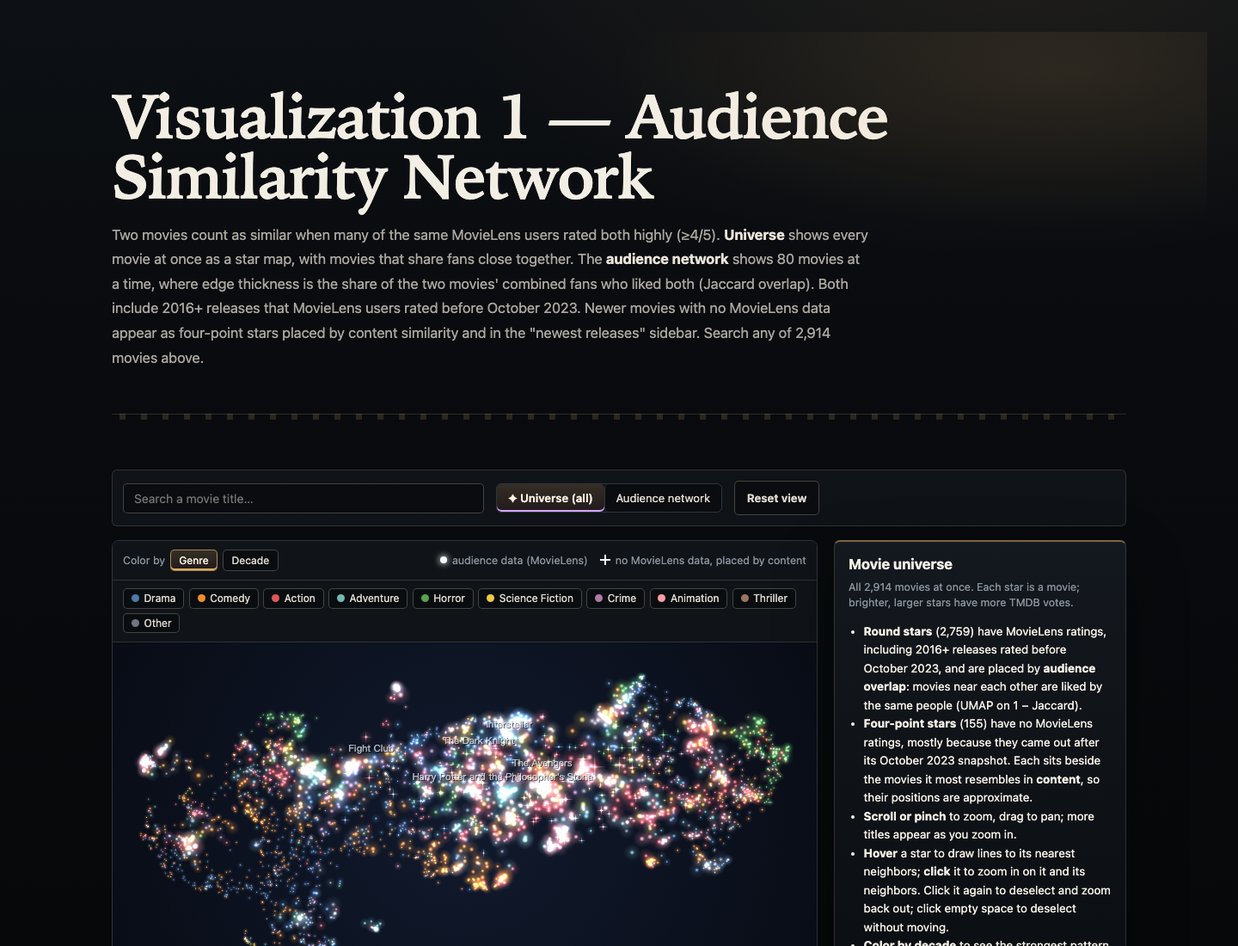
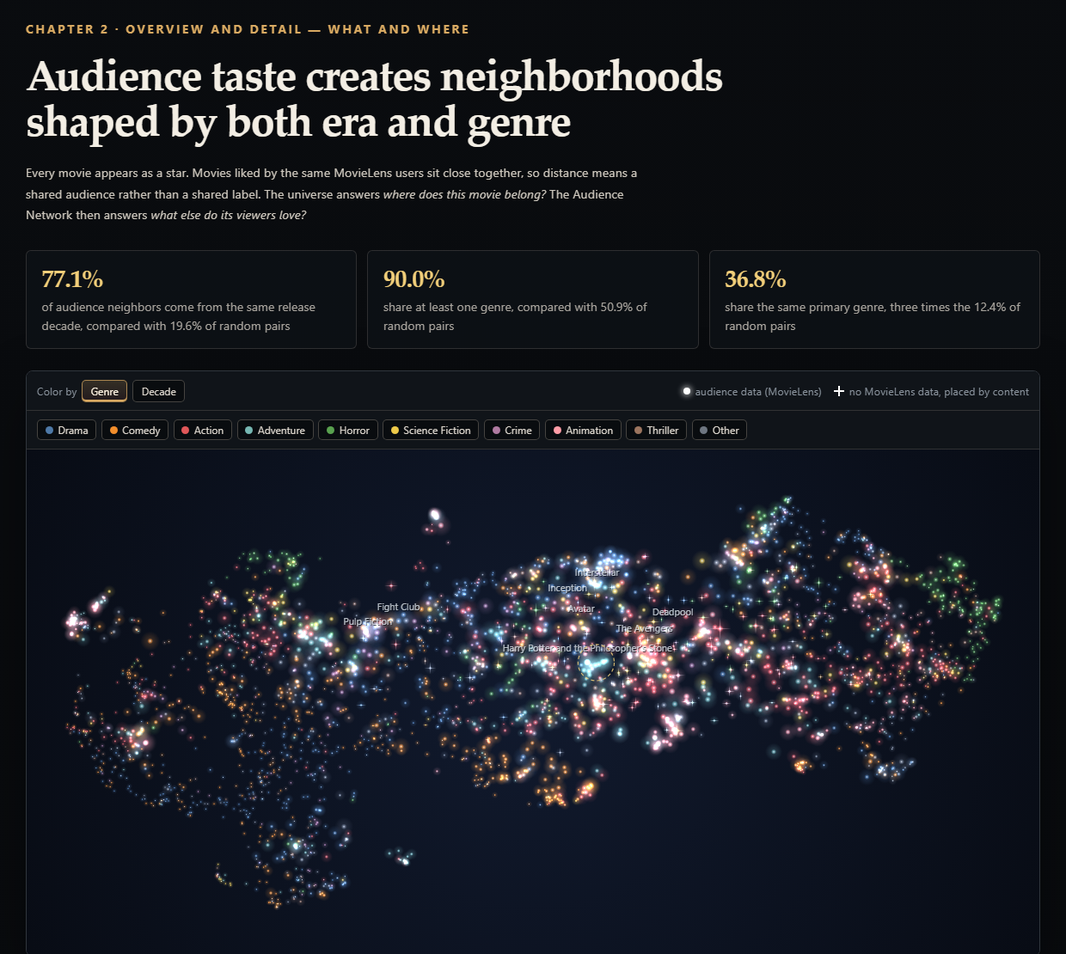
Update the final report to match the story-driven homepage

diff --git a/docs/report.html b/docs/report.html
@@ -8,7 +8,7 @@
   <title>WatchNext — Final Report</title>
   <link rel="stylesheet" href="css/style.css?v=20261017a" />
   <link rel="stylesheet" href="css/cinematic.css?v=20261017a" />
-  <link rel="stylesheet" href="css/report.css?v=20261017a" />
+  <link rel="stylesheet" href="css/report.css?v=20261017b" />
 </head>
 
 <body class="report-body">
@@ -57,7 +57,7 @@
         <div class="report-summary">
           <p>WatchNext asks: <strong>What makes audiences love a movie, and if they love one movie, what else might they love?</strong> A rating alone cannot explain whether a movie attracted attention, appealed to a particular audience, or belonged to a recurring creative partnership.</p>
           <p>We created four connected visualization topics covering genre trends, audience similarity, rating versus discussion, and actor–director collaboration. The project combines MovieLens 32M with metadata and reviews collected from TMDB. After cleaning and merging both sources, the final dataset contains 2,914 movies.</p>
-          <p>The answer changes with the metric: Animation has the highest vote-count-weighted TMDB rating in the 2016–2025 data, while Action receives the most votes. Audience-similar movies strongly share both release era and genre, but rating, voting attention, and written-review tone do not always agree. Movie discovery therefore benefits from several forms of evidence rather than one score.</p>
+          <p>The answer changes with the metric: Animation has the highest vote-count-weighted TMDB rating in the 2016–2025 data, while Action receives the most votes. Audience-similar movies strongly share both release era and genre, but rating, voting attention, and written-review tone do not always agree. Movie discovery therefore benefits from several forms of evidence rather than one score. The website presents the four topics as a story in four chapters, moving from genre context to audience neighborhoods, acclaim versus attention, and creative partnerships, and follows one movie, <em>Oppenheimer</em>, through every chapter.</p>
         </div>
       </section>
 
@@ -78,7 +78,7 @@
         <span class="report-section-number">02 · Data</span>
         <h2>Connecting audience behavior with movie context</h2>
         <p><strong>MovieLens 32M</strong> contains 32,000,204 ratings and 2,000,072 tags from 200,948 users across 87,585 movies. It provides the user-level behavior required for audience similarity. The <strong>TMDB API</strong> supplies genres, release dates, ratings, vote counts, budget, revenue, cast, directors, keywords, and available reviews.</p>
-        <p>We created the final dataset through two tracks. The historical track began with high-activity MovieLens titles selected by rating count and matched to TMDB IDs. The recent track was collected directly from TMDB to improve coverage after 2016 because MovieLens ratings end in October 2023 and become thinner for newer releases. After duplicate TMDB IDs were removed, the tracks produced 2,914 movies: 1,998 historical and 916 recent.</p>
+        <p>We created the final dataset through two tracks. The historical track began with high-activity MovieLens titles selected by rating count and matched to TMDB IDs. The recent track was collected directly from TMDB to improve coverage after 2016 because MovieLens ratings end in October 2023 and become thinner for newer releases. After duplicate TMDB IDs were removed, the tracks produced 2,914 movies: 1,998 historical (released 1922–2022) and 916 recent (2016–2026).</p>
         <p>MovieLens titles, years, genres, ratings, timestamps, and external IDs were cleaned and validated before audience overlap was calculated. From TMDB, we collected movie records, top cast, directors, keywords, and reviews. Zero or clearly unrealistic budget and revenue values were treated as missing. We cleaned and deduplicated 11,481 reviews covering about 2,650 movies, estimated sentiment with <code>siebert/sentiment-roberta-large-english</code>, and extracted review keywords using TF–IDF. Visualization-specific JSON files allow each browser view to load only the fields it needs. The complete Python pipeline is documented in <a href="https://github.com/blackcatyu/WatchNext/blob/main/data/README.md">data/README.md</a>.</p>
       </section>
 
@@ -86,36 +86,56 @@
         <span class="report-section-number">03 · Visualizations</span>
         <h2>Four views, one connected movie story</h2>
 
-        <h3>Visualization 1 · Movie Universe and Audience Similarity Network</h3>
+        <h3>How the website tells the story</h3>
+        <p>The homepage presents the four topics as chapters in story order rather than in visualization-number order. The standalone pages keep their original numbers.</p>
+        <div class="report-table-wrap">
+          <table class="report-story-table">
+            <thead><tr><th>Chapter</th><th>Story stage</th><th>Visualization</th><th>Finding-style headline</th></tr></thead>
+            <tbody>
+              <tr><td>1</td><td>Context: when and where</td><td>Visualization 4, Genre Heatmap</td><td>Animation leads in ratings; Action draws the most votes</td></tr>
+              <tr><td>2</td><td>Overview and detail: what and where</td><td>Visualization 1, Movie Universe and Audience Network</td><td>Audience taste creates neighborhoods shaped by both era and genre</td></tr>
+              <tr><td>3</td><td>Important difference: what relationships exist</td><td>Visualization 2, Performance and Discussion Scatterplot</td><td>A movie can be loved, widely discussed, or warmly reviewed — these are not the same thing</td></tr>
+              <tr><td>4</td><td>People and relationships: who is involved</td><td>Visualization 3, Collaboration Network and Career View</td><td>Repeated creative partnerships form durable movie communities</td></tr>
+              <tr><td>—</td><td>Insight: why it matters</td><td>Conclusion, no new chart</td><td>Finding a meaningful next movie takes more than one score</td></tr>
+            </tbody>
+          </table>
+        </div>
+        <p>Every chapter follows the same structure. A finding-style headline states the result, and three evidence cards give the supporting numbers before the viewer interacts. The chart carries an annotation that marks the same finding, so it is visible without hovering. Below the chart, a “How to read it” note explains the encodings, a “Try this” prompt suggests one interaction that extends the finding, and a “Keep in mind” note places caveats beside the claim they qualify. A transition sentence then turns the finding into the next chapter's question. One movie, <em>Oppenheimer</em> (2023), is followed through all four chapters because it appears in every topic. The conclusion lists four takeaways that link back to their chapters, and the full data and methods material sits in an appendix after the story.</p>
+
+        <h3>Chapter 1 · Visualization 4: Genre Ratings Over Time</h3>
+        <p><strong>What.</strong> This heatmap compares 13 major genres across 2016–2026. Rows are genres, columns are years, and the default color is the vote-count-weighted average TMDB rating. Users can recolor the same grid by total votes or number of movies. Multi-genre movies can contribute to more than one row.</p>
+        <p><strong>Why and how.</strong> A fixed grid makes evaluation, voting activity, and dataset coverage directly comparable. Hovering emphasizes a genre row and year column and shows all three measures. Clicking a cell pins it and opens its contributing movies. Metric changes animate briefly and update the legend, units, and labels together. Excluding partial 2026, Animation has the highest 2016–2025 weighted rating at 7.47, while Action receives about 2.05 million votes despite a weighted rating of 6.98. A visible note explains that the 28 movies in 2026 are partial-year coverage, not a complete annual decline.</p>
+        <p><strong>Annotation.</strong> A dashed outline marks the genre that leads the selected metric over the complete years 2016–2025, with its value beside the row. The outline moves when the metric changes, from Animation for rating to Action for votes, which makes the chapter's point directly on the chart. <em>Oppenheimer</em> is the most-voted movie in the 2023 Drama cell.</p>
+        <figure class="report-figure">
+          <img src="report-assets/viz4.png" alt="Chapter 1 of the WatchNext homepage: finding headline, evidence cards, and the genre heatmap with the leading genre outlined" width="1240" height="1350" loading="lazy" />
+          <figcaption>Chapter 1 states its finding first; the outline marks the genre that leads the active metric.</figcaption>
+        </figure>
+
+        <h3>Chapter 2 · Visualization 1: Movie Universe and Audience Similarity Network</h3>
         <p><strong>What.</strong> Visualization 1 contains two coordinated views of one audience-similarity topic. The Movie Universe shows all 2,914 movies as stars. The 2,759 films with MovieLens data are positioned using UMAP on audience-overlap distances. Another 155 newer films are placed by content similarity and use a different star shape. The Audience Network shows a smaller neighborhood connected through shared users who rated both movies at least 4 out of 5.</p>
-        <p><strong>Why and how.</strong> The universe answers “where does this movie belong?”, while the network answers “what else do its viewers like?” Users can zoom, pan, search, switch between genre and decade colors, select a movie, and open its network neighborhood. Network interactions include recentering, dragging, genre highlighting, shared-attribute details, and recent content-based suggestions. Across 33,108 stored neighbor relationships, 77.1% connect movies from the same decade, compared with 19.6% for random pairs. In addition, 90.0% share at least one genre, compared with 50.9% for random pairs. Audience neighborhoods therefore reflect both era and genre.</p>
+        <p><strong>Why and how.</strong> The universe answers “where does this movie belong?”, while the network answers “what else do its viewers like?” Users can zoom, pan, search, switch between genre and decade colors, select a movie, and open its network neighborhood. Network interactions include recentering, dragging, genre highlighting, shared-attribute details, and recent content-based suggestions. Across 33,108 stored neighbor relationships, 77.1% connect movies from the same decade, compared with 19.6% for random pairs. In addition, 90.0% share at least one genre, compared with 50.9% for random pairs, and 36.8% share the same primary genre, compared with 12.4%. Audience neighborhoods therefore reflect both era and genre.</p>
+        <p><strong>Annotation.</strong> A dashed ring marks the eight Harry Potter films, which all sit in one audience neighborhood. The chapter text adds that a franchise can still split by era: <em>Toy Story</em> and <em>Toy Story 2</em> sit among 1990s films, while <em>Toy Story 4</em> sits among 2010s releases. The “Try this” prompt asks viewers to switch to decade colors, where the map runs from older films on the left to recent releases on the right, and a link opens <em>Oppenheimer</em>'s audience neighborhood.</p>
         <figure class="report-figure">
-          <img src="report-assets/viz1.png" alt="WatchNext Movie Universe and Audience Network interface" width="1440" height="1100" loading="lazy" />
-          <figcaption>Visualization 1 combines an all-movie universe with a focused audience-similarity neighborhood.</figcaption>
+          <img src="report-assets/viz1.png" alt="Chapter 2 of the WatchNext homepage: finding headline, evidence cards, and the Movie Universe with the Harry Potter films ringed" width="1240" height="1110" loading="lazy" />
+          <figcaption>Chapter 2 places every movie by shared audience; the ring marks one franchise neighborhood.</figcaption>
         </figure>
 
-        <h3>Visualization 2 · Movie Performance and Audience Discussion</h3>
+        <h3>Chapter 3 · Visualization 2: Movie Performance and Audience Discussion</h3>
         <p><strong>What.</strong> This scatterplot compares ratings with two forms of audience response. In the default view, the x-axis is rating and the y-axis is discussion, measured by TMDB vote count relative to movies released within plus or minus two years. The second view compares rating with positive written-review share. Bubble size represents revenue and color represents primary genre.</p>
-        <p><strong>Why and how.</strong> The chart separates acclaim from attention and reveals hidden gems, widely discussed lower-rated movies, and disagreement between ratings and written reviews. Users can select a region, search, filter by genre or decade, switch rating sources, brush to zoom, and click a bubble for movie details. Animated transitions preserve point relationships when the view changes. <em>The Hunt</em> has a high rating but relatively lower discussion, while <em>Suicide Squad</em> is widely discussed despite its lower rating. These are descriptive patterns, not causal conclusions.</p>
+        <p><strong>Why and how.</strong> The chart separates acclaim from attention and reveals “hidden gems,” widely discussed lower-rated movies, and disagreement between ratings and written reviews. Users can select a region, search, filter by genre or decade, switch rating sources, brush to zoom, and click a bubble for movie details. Animated transitions preserve point relationships when the view changes. These are descriptive patterns, not causal conclusions.</p>
+        <p><strong>Annotation.</strong> Three movies are labeled directly on the chart, one for each contrast. <em>The Hunt</em> (2012) is rated 8.1 but has more votes than only 10% of movies from its era. <em>Oppenheimer</em> is rated 8.0 and is more discussed than 98% of its era. <em>Suicide Squad</em> is rated 5.9 yet is more discussed than 97% of its era. The labels hide in the review-tone view and while a movie is selected, so they do not compete with the viewer's own exploration.</p>
         <figure class="report-figure">
-          <img src="report-assets/viz2.png" alt="WatchNext movie performance and audience discussion scatterplot" width="1440" height="1100" loading="lazy" />
-          <figcaption>Visualization 2 separates rating, attention, revenue, genre, and written-review tone.</figcaption>
+          <img src="report-assets/viz2.png" alt="Chapter 3 of the WatchNext homepage: finding headline, evidence cards, and the scatterplot with The Hunt, Oppenheimer, and Suicide Squad labeled" width="1240" height="1250" loading="lazy" />
+          <figcaption>Chapter 3 labels one movie for each contrast between rating and discussion.</figcaption>
         </figure>
 
-        <h3>Visualization 3 · Actor–Director Collaboration and Career View</h3>
+        <h3>Chapter 4 · Visualization 3: Actor–Director Collaboration and Career View</h3>
         <p><strong>What.</strong> The network contains 318 actors and directors connected by 278 repeated-collaboration links. Circles represent actors, diamonds represent directors, node size represents collaboration strength, edge width represents shared movies, and color represents a community detected from the network. Selecting a person opens a career chart where year is mapped to the x-axis, TMDB rating to the y-axis, revenue to circle size, and genre to color.</p>
         <p><strong>Why and how.</strong> The network reveals recurring creative relationships, while the career chart connects the overview to one person's work. Users can search, select a genre, change the shared-movie threshold, zoom, pan, drag individual nodes, select collaborators, and reset the state. The genre filter recomputes collaboration counts from shared movie IDs rather than only hiding nodes. Short force-based transitions use attraction, repulsion, collision, and community forces to preserve the viewer's mental map. Bill Murray and Wes Anderson form the strongest displayed collaboration with eight shared movies; Johnny Depp and Tim Burton, and Robert De Niro and Martin Scorsese, each share seven.</p>
+        <p><strong>Annotation and guidance.</strong> A callout rings Bill Murray and Wes Anderson and labels them as the strongest repeat pair; it disappears while a person is focused. On the standalone page, a short guide card explains how to read the network and offers a “Try Christopher Nolan” button. Nolan's career chart places <em>Oppenheimer</em> among his 12 films in the dataset, which completes the case study.</p>
         <figure class="report-figure">
-          <img src="report-assets/viz3.png" alt="WatchNext actor and director collaboration network with career view" width="1440" height="1100" loading="lazy" />
-          <figcaption>Visualization 3 links repeated creative partnerships to an individual's film career.</figcaption>
-        </figure>
-
-        <h3>Visualization 4 · Genre Ratings Over Time</h3>
-        <p><strong>What.</strong> This heatmap compares 13 major genres across 2016–2026. Rows are genres, columns are years, and the default color is the vote-count-weighted average TMDB rating. Users can recolor the same grid by total votes or number of movies. Multi-genre movies can contribute to more than one row.</p>
-        <p><strong>Why and how.</strong> A fixed grid makes evaluation, voting activity, and dataset coverage directly comparable. Hovering emphasizes a genre row and year column and shows all three measures. Clicking a cell pins it and opens its contributing movies. Metric changes animate briefly and update the legend, units, and labels together. Excluding partial 2026, Animation has the highest 2016–2025 weighted rating at 7.47, while Action receives about 2.05 million votes. A visible note explains that the 28 movies in 2026 are partial-year coverage, not a complete annual decline.</p>
-        <figure class="report-figure">
-          <img src="report-assets/viz4.png" alt="WatchNext genre rating heatmap with a selected cell and contributing movies" width="1440" height="1100" loading="lazy" />
-          <figcaption>Visualization 4 keeps the genre-by-year structure fixed while the active metric changes.</figcaption>
+          <img src="report-assets/viz3.png" alt="Chapter 4 of the WatchNext homepage: finding headline, evidence cards, and the collaboration network with the strongest repeat pair called out" width="1240" height="1360" loading="lazy" />
+          <figcaption>Chapter 4 calls out the strongest repeat actor–director pair in the network.</figcaption>
         </figure>
       </section>
 
@@ -124,7 +144,7 @@
         <h2>Interaction should clarify the question</h2>
         <p>The project's main strength is that each interaction supports a clear task. Search locates a known movie or person, filters support comparison, zooming reveals dense areas, and selection connects overview with detail. Consistent typography, controls, dark cinematic styling, movie-inspired elements, and restrained transitions make the four topics feel like one website.</p>
         <p>Important limitations remain. The dataset favors titles with more MovieLens ratings or TMDB votes and is not representative of every released film. The newest movies do not have equivalent audience-overlap data. TMDB vote count measures voting activity, not complete popularity or discussion. Review samples are small for many movies, and the sentiment model may read dark subject matter as negative tone. Revenue is also missing for many streaming-first releases. Finally, Visualization 3 intentionally emphasizes people with at least five movies and collaborations with at least three shared films.</p>
-        <p>During development, we tested loading, search, filtering, metric switching, selection, reset behavior, zooming, dragging, tooltips, responsive layout, and console errors in the browser. We prepared a task-based think-aloud plan, but a larger formal user study has not yet been completed. Future improvements include collecting structured user feedback, adding more homepage annotations, and carrying selected movies or people more consistently between views.</p>
+        <p>During development, we tested loading, search, filtering, metric switching, selection, reset behavior, zooming, dragging, tooltips, responsive layout, and console errors in the browser. We prepared a task-based think-aloud plan, but a larger formal user study has not yet been completed. Since the first version, the homepage has replaced plan-style descriptions with a guided story: finding headlines, evidence cards, on-chart annotations, caveats placed beside their claims, and a recurring case study. Future improvements include collecting structured user feedback and carrying a selected movie or person between views automatically; the <em>Oppenheimer</em> thread is currently guided by prompts rather than linked selection.</p>
       </section>
 
       <section id="conclusion" class="report-section">
@@ -144,7 +164,7 @@
           </div>
           <div class="report-contribution">
             <h3>Muyu</h3>
-            <p>Remaining data processing, including MovieLens-based audience similarity; Visualizations 1 and 2, including the Movie Universe, Audience Network, and performance/discussion scatterplot with search, filtering, selection, and detail interactions.</p>
+            <p>Data pipeline: collecting and cleaning MovieLens and TMDB data and merging them into the final 2,914-movie dataset; review sentiment, review keywords, and MovieLens audience similarity; Visualizations 1 and 2, including the Movie Universe, Audience Network, and performance/discussion scatterplot with search, filtering, selection, and detail interactions; the homepage story and its on-chart annotations, and the report update.</p>
           </div>
         </div>
         <p>Both team members contributed to project framing, integration, debugging, interpretation, documentation, and presentation preparation.</p>

diff --git a/docs/css/report.css b/docs/css/report.css
@@ -40,6 +40,11 @@
 .report-figure { max-width: 900px; margin: 2rem 0 3.4rem; }
 .report-figure img { display: block; width: 100%; height: auto; border: 1px solid var(--cinema-line-strong); border-radius: 7px; background: #0a0d11; box-shadow: var(--cinema-shadow); }
 .report-figure figcaption { margin-top: 0.8rem; color: #8f8d88; font-size: 0.78rem; line-height: 1.55; }
+.report-table-wrap { max-width: 900px; margin: 1.6rem 0 1.8rem; overflow-x: auto; border: 1px solid var(--cinema-line); border-radius: 7px; }
+.report-story-table { width: 100%; min-width: 620px; border-collapse: collapse; font-size: 0.88rem; line-height: 1.5; }
+.report-story-table th { padding: 0.75rem 0.9rem; color: var(--cinema-gold); background: rgba(13, 16, 20, 0.96); font-size: 0.68rem; font-weight: 800; letter-spacing: 0.12em; text-align: left; text-transform: uppercase; }
+.report-story-table td { padding: 0.75rem 0.9rem; color: #aaa69f; border-top: 1px solid rgba(222, 211, 194, 0.11); vertical-align: top; }
+.report-story-table td:last-child { color: #e8e0d5; font-family: var(--cinema-serif); }
 .report-contributions { display: grid; grid-template-columns: repeat(2, minmax(0, 1fr)); gap: 1px; max-width: 900px; margin-top: 1.7rem; padding: 1px; background: var(--cinema-line); border: 1px solid var(--cinema-line); }
 .report-contribution { padding: 1.35rem 1.45rem; background: rgba(13, 16, 20, 0.96); }
 .report-contribution h3 { margin: 0 0 0.7rem; color: #eee7dc; font-size: 1.4rem; }
@@ -48,4 +53,4 @@
 .report-footer { display: flex; align-items: center; justify-content: space-between; gap: 1rem; padding-top: 1.5rem; color: #7f7e79; border-top: 1px solid var(--cinema-line); font-size: 0.76rem; }
 @media (max-width: 880px) { .report-stats { grid-template-columns: repeat(2, minmax(0, 1fr)); } .report-layout { grid-template-columns: 1fr; gap: 3rem; } .report-toc { position: static; } .report-toc ol { display: grid; grid-template-columns: repeat(2, minmax(0, 1fr)); gap: 0 1.5rem; } }
 @media (max-width: 640px) { .report-topbar { align-items: flex-start; flex-direction: column; margin-bottom: 3.5rem; } .report-title { overflow-wrap: anywhere; font-size: clamp(2.5rem, 13vw, 4.6rem); } .report-stats, .report-contributions { grid-template-columns: 1fr; } .report-toc ol { grid-template-columns: 1fr; } .report-question-list li { padding-left: 2.6rem; } .report-footer { align-items: flex-start; flex-direction: column; } }
-@media print { html, .report-body { color-scheme: light; color: #111; background: #fff; } .report-body::before, .report-body::after, .report-toc, .report-topbar { display: none; } .report-title, .report-section h2, .report-section h3, .report-section strong, .report-stat dd { color: #111; } .report-deck, .report-section p, .report-section li, .report-figure figcaption, .report-footer { color: #333; } .report-layout { display: block; } .report-section { break-inside: avoid; } .report-figure img { box-shadow: none; } }
+@media print { html, .report-body { color-scheme: light; color: #111; background: #fff; } .report-body::before, .report-body::after, .report-toc, .report-topbar { display: none; } .report-title, .report-section h2, .report-section h3, .report-section strong, .report-stat dd { color: #111; } .report-deck, .report-section p, .report-section li, .report-figure figcaption, .report-footer, .report-story-table td { color: #333; } .report-story-table th { color: #111; background: #f2f2f2; } .report-layout { display: block; } .report-section { break-inside: avoid; } .report-figure img { box-shadow: none; } }

diff --git a/FINAL_REPORT.md b/FINAL_REPORT.md
@@ -4,7 +4,7 @@
 
 WatchNext is an interactive website that asks: **What makes audiences love a movie, and if they love one movie, what else might they love?** A rating alone cannot explain whether a movie attracted attention, appealed to a particular audience, or belonged to a recurring creative partnership. We therefore created four connected visualization topics covering genre trends, audience similarity, rating versus discussion, and actor–director collaboration.
 
-The project combines MovieLens 32M with metadata and reviews collected from TMDB. After cleaning and merging both sources, the final dataset contains 2,914 movies. We found that the answer changes with the metric: Animation has the highest vote-count-weighted TMDB rating in the 2016–2025 data, while Action receives the most votes. Audience-similar movies strongly share both release era and genre, but rating, voting attention, and written-review tone do not always agree. These results show why movie discovery benefits from several forms of evidence rather than one score.
+The project combines MovieLens 32M with metadata and reviews collected from TMDB. After cleaning and merging both sources, the final dataset contains 2,914 movies. We found that the answer changes with the metric: Animation has the highest vote-count-weighted TMDB rating in the 2016–2025 data, while Action receives the most votes. Audience-similar movies strongly share both release era and genre, but rating, voting attention, and written-review tone do not always agree. These results show why movie discovery benefits from several forms of evidence rather than one score. The website presents the four topics as a story in four chapters, moving from genre context to audience neighborhoods, acclaim versus attention, and creative partnerships, and follows one movie, *Oppenheimer*, through every chapter.
 
 ## 1. Motivation, Questions, and Intended Audience
 
@@ -23,43 +23,65 @@ Visualization is appropriate because these questions involve spatial relationshi
 
 **MovieLens 32M** contains 32,000,204 ratings and 2,000,072 tags from 200,948 users across 87,585 movies. It provides the user-level behavior required for audience similarity. The **TMDB API** supplies genres, release dates, ratings, vote counts, budget, revenue, cast, directors, keywords, and available reviews.
 
-We created the final dataset through two tracks. The historical track began with high-activity MovieLens titles selected by rating count and matched to TMDB IDs. The recent track was collected directly from TMDB to improve coverage after 2016 because MovieLens ratings end in October 2023 and become thinner for newer releases. After duplicate TMDB IDs were removed, the tracks produced 2,914 movies: 1,998 historical and 916 recent.
+We created the final dataset through two tracks. The historical track began with high-activity MovieLens titles selected by rating count and matched to TMDB IDs. The recent track was collected directly from TMDB to improve coverage after 2016 because MovieLens ratings end in October 2023 and become thinner for newer releases. After duplicate TMDB IDs were removed, the tracks produced 2,914 movies: 1,998 historical (released 1922–2022) and 916 recent (2016–2026).
 
 MovieLens titles, years, genres, ratings, timestamps, and external IDs were cleaned and validated before audience overlap was calculated. From TMDB, we collected movie records, top cast, directors, keywords, and reviews. Zero or clearly unrealistic budget and revenue values were treated as missing. We cleaned and deduplicated 11,481 reviews covering about 2,650 movies, estimated sentiment with `siebert/sentiment-roberta-large-english`, and extracted review keywords using TF–IDF. Visualization-specific JSON files allow each browser view to load only the fields it needs. The complete Python pipeline is documented in `data/README.md`.
 
 ## 3. Visualization Design, Interactions, and Findings
 
-### Visualization 1: Movie Universe and Audience Similarity Network
+### How the website tells the story
+
+The homepage presents the four topics as chapters in story order rather than in visualization-number order. The standalone pages keep their original numbers.
+
+| Chapter | Story stage | Visualization | Finding-style headline |
+|---|---|---|---|
+| 1 | Context: when and where | Visualization 4, Genre Heatmap | Animation leads in ratings; Action draws the most votes |
+| 2 | Overview and detail: what and where | Visualization 1, Movie Universe and Audience Network | Audience taste creates neighborhoods shaped by both era and genre |
+| 3 | Important difference: what relationships exist | Visualization 2, Performance and Discussion Scatterplot | A movie can be loved, widely discussed, or warmly reviewed — these are not the same thing |
+| 4 | People and relationships: who is involved | Visualization 3, Collaboration Network and Career View | Repeated creative partnerships form durable movie communities |
+| — | Insight: why it matters | Conclusion, no new chart | Finding a meaningful next movie takes more than one score |
+
+Every chapter follows the same structure. A finding-style headline states the result, and three evidence cards give the supporting numbers before the viewer interacts. The chart carries an annotation that marks the same finding, so it is visible without hovering. Below the chart, a “How to read it” note explains the encodings, a “Try this” prompt suggests one interaction that extends the finding, and a “Keep in mind” note places caveats beside the claim they qualify. A transition sentence then turns the finding into the next chapter's question. One movie, *Oppenheimer* (2023), is followed through all four chapters because it appears in every topic. The conclusion lists four takeaways that link back to their chapters, and the full data and methods material sits in an appendix after the story.
+
+### Chapter 1 — Visualization 4: Genre Ratings Over Time
+
+**What.** This heatmap compares 13 major genres across 2016–2026. Rows are genres, columns are years, and the default color is the vote-count-weighted average TMDB rating. Users can recolor the same grid by total votes or number of movies. Multi-genre movies can contribute to more than one row.
+
+**Why and how.** A fixed grid makes evaluation, voting activity, and dataset coverage directly comparable. Hovering emphasizes a genre row and year column and shows all three measures. Clicking a cell pins it and opens its contributing movies. Metric changes animate briefly and update the legend, units, and labels together. Excluding partial 2026, Animation has the highest 2016–2025 weighted rating at 7.47, while Action receives about 2.05 million votes despite a weighted rating of 6.98. A visible note explains that the 28 movies in 2026 are partial-year coverage, not a complete annual decline.
+
+**Annotation.** A dashed outline marks the genre that leads the selected metric over the complete years 2016–2025, with its value beside the row. The outline moves when the metric changes, from Animation for rating to Action for votes, which makes the chapter's point directly on the chart. *Oppenheimer* is the most-voted movie in the 2023 Drama cell.
+
+![Chapter 1 states its finding first; the outline marks the genre that leads the active metric.](docs/report-assets/viz4.png)
+
+### Chapter 2 — Visualization 1: Movie Universe and Audience Similarity Network
 
 **What.** Visualization 1 contains two coordinated views of one audience-similarity topic. The Movie Universe shows all 2,914 movies as stars. The 2,759 films with MovieLens data are positioned using UMAP on audience-overlap distances. Another 155 newer films are placed by content similarity and use a different star shape. The Audience Network shows a smaller neighborhood connected through shared users who rated both movies at least 4 out of 5.
 
-**Why and how.** The universe answers “where does this movie belong?”, while the network answers “what else do its viewers like?” Users can zoom, pan, search, switch between genre and decade colors, select a movie, and open its network neighborhood. Network interactions include recentering, dragging, genre highlighting, shared-attribute details, and recent content-based suggestions. Across 33,108 stored neighbor relationships, 77.1% connect movies from the same decade, compared with 19.6% for random pairs. In addition, 90.0% share at least one genre, compared with 50.9% for random pairs. Audience neighborhoods therefore reflect both era and genre.
+**Why and how.** The universe answers “where does this movie belong?”, while the network answers “what else do its viewers like?” Users can zoom, pan, search, switch between genre and decade colors, select a movie, and open its network neighborhood. Network interactions include recentering, dragging, genre highlighting, shared-attribute details, and recent content-based suggestions. Across 33,108 stored neighbor relationships, 77.1% connect movies from the same decade, compared with 19.6% for random pairs. In addition, 90.0% share at least one genre, compared with 50.9% for random pairs, and 36.8% share the same primary genre, compared with 12.4%. Audience neighborhoods therefore reflect both era and genre.
 
-![Visualization 1 — Movie Universe and Audience Network](docs/report-assets/viz1.png)
+**Annotation.** A dashed ring marks the eight Harry Potter films, which all sit in one audience neighborhood. The chapter text adds that a franchise can still split by era: *Toy Story* and *Toy Story 2* sit among 1990s films, while *Toy Story 4* sits among 2010s releases. The “Try this” prompt asks viewers to switch to decade colors, where the map runs from older films on the left to recent releases on the right, and a link opens *Oppenheimer*'s audience neighborhood.
 
-### Visualization 2: Movie Performance and Audience Discussion
+![Chapter 2 places every movie by shared audience; the ring marks one franchise neighborhood.](docs/report-assets/viz1.png)
+
+### Chapter 3 — Visualization 2: Movie Performance and Audience Discussion
 
 **What.** This scatterplot compares ratings with two forms of audience response. In the default view, the x-axis is rating and the y-axis is discussion, measured by TMDB vote count relative to movies released within plus or minus two years. The second view compares rating with positive written-review share. Bubble size represents revenue and color represents primary genre.
 
-**Why and how.** The chart separates acclaim from attention and reveals “hidden gems,” widely discussed lower-rated movies, and disagreement between ratings and written reviews. Users can select a region, search, filter by genre or decade, switch rating sources, brush to zoom, and click a bubble for movie details. Animated transitions preserve point relationships when the view changes. *The Hunt* has a high rating but relatively lower discussion, while *Suicide Squad* is widely discussed despite its lower rating. These are descriptive patterns, not causal conclusions.
+**Why and how.** The chart separates acclaim from attention and reveals “hidden gems,” widely discussed lower-rated movies, and disagreement between ratings and written reviews. Users can select a region, search, filter by genre or decade, switch rating sources, brush to zoom, and click a bubble for movie details. Animated transitions preserve point relationships when the view changes. These are descriptive patterns, not causal conclusions.
 
-![Visualization 2 — Movie Performance and Audience Discussion](docs/report-assets/viz2.png)
+**Annotation.** Three movies are labeled directly on the chart, one for each contrast. *The Hunt* (2012) is rated 8.1 but has more votes than only 10% of movies from its era. *Oppenheimer* is rated 8.0 and is more discussed than 98% of its era. *Suicide Squad* is rated 5.9 yet is more discussed than 97% of its era. The labels hide in the review-tone view and while a movie is selected, so they do not compete with the viewer's own exploration.
 
-### Visualization 3: Actor–Director Collaboration and Career View
+![Chapter 3 labels one movie for each contrast between rating and discussion.](docs/report-assets/viz2.png)
+
+### Chapter 4 — Visualization 3: Actor–Director Collaboration and Career View
 
 **What.** The network contains 318 actors and directors connected by 278 repeated-collaboration links. Circles represent actors, diamonds represent directors, node size represents collaboration strength, edge width represents shared movies, and color represents a community detected from the network. Selecting a person opens a career chart where year is mapped to the x-axis, TMDB rating to the y-axis, revenue to circle size, and genre to color.
 
 **Why and how.** The network reveals recurring creative relationships, while the career chart connects the overview to one person's work. Users can search, select a genre, change the shared-movie threshold, zoom, pan, drag individual nodes, select collaborators, and reset the state. The genre filter recomputes collaboration counts from shared movie IDs rather than only hiding nodes. Short force-based transitions use attraction, repulsion, collision, and community forces to preserve the viewer's mental map. Bill Murray and Wes Anderson form the strongest displayed collaboration with eight shared movies; Johnny Depp and Tim Burton, and Robert De Niro and Martin Scorsese, each share seven.
 
-![Visualization 3 — Collaboration Network and Career View](docs/report-assets/viz3.png)
+**Annotation and guidance.** A callout rings Bill Murray and Wes Anderson and labels them as the strongest repeat pair; it disappears while a person is focused. On the standalone page, a short guide card explains how to read the network and offers a “Try Christopher Nolan” button. Nolan's career chart places *Oppenheimer* among his 12 films in the dataset, which completes the case study.
 
-### Visualization 4: Genre Ratings Over Time
-
-**What.** This heatmap compares 13 major genres across 2016–2026. Rows are genres, columns are years, and the default color is the vote-count-weighted average TMDB rating. Users can recolor the same grid by total votes or number of movies. Multi-genre movies can contribute to more than one row.
-
-**Why and how.** A fixed grid makes evaluation, voting activity, and dataset coverage directly comparable. Hovering emphasizes a genre row and year column and shows all three measures. Clicking a cell pins it and opens its contributing movies. Metric changes animate briefly and update the legend, units, and labels together. Excluding partial 2026, Animation has the highest 2016–2025 weighted rating at 7.47, while Action receives about 2.05 million votes. A visible note explains that the 28 movies in 2026 are partial-year coverage, not a complete annual decline.
-
-![Visualization 4 — Genre Ratings Over Time](docs/report-assets/viz4.png)
+![Chapter 4 calls out the strongest repeat actor–director pair in the network.](docs/report-assets/viz3.png)
 
 ## 4. Design Evaluation
 
@@ -67,7 +89,7 @@ The project's main strength is that each interaction supports a clear task. Sear
 
 Important limitations remain. The dataset favors titles with more MovieLens ratings or TMDB votes and is not representative of every released film. The newest movies do not have equivalent audience-overlap data. TMDB vote count measures voting activity, not complete popularity or discussion. Review samples are small for many movies, and the sentiment model may read dark subject matter as negative tone. Revenue is also missing for many streaming-first releases. Finally, Visualization 3 intentionally emphasizes people with at least five movies and collaborations with at least three shared films.
 
-During development, we tested loading, search, filtering, metric switching, selection, reset behavior, zooming, dragging, tooltips, responsive layout, and console errors in the browser. We prepared a task-based think-aloud plan, but a larger formal user study has not yet been completed. Future improvements include collecting structured user feedback, adding more homepage annotations, and carrying selected movies or people more consistently between views.
+During development, we tested loading, search, filtering, metric switching, selection, reset behavior, zooming, dragging, tooltips, responsive layout, and console errors in the browser. We prepared a task-based think-aloud plan, but a larger formal user study has not yet been completed. Since the first version, the homepage has replaced plan-style descriptions with a guided story: finding headlines, evidence cards, on-chart annotations, caveats placed beside their claims, and a recurring case study. Future improvements include collecting structured user feedback and carrying a selected movie or person between views automatically; the *Oppenheimer* thread is currently guided by prompts rather than linked selection.
 
 ## 5. Conclusion
 
@@ -77,9 +99,9 @@ Instead of producing one automatic recommendation, WatchNext offers a transparen
 
 ## 6. Team Contributions
 
-**Jiaxuan** was responsible for TMDB data acquisition and processing, including movie metadata, cast, directors, keywords, and reviews. Jiaxuan developed Visualizations 3 and 4, including their data exports, filters, animations, and linked detail views. Jiaxuan also led the overall website layout, cinematic visual design, interaction polish, and cross-page consistency.
+**Jiaxuan** was responsible for TMDB data acquisition and processing, including movie metadata, cast, directors, keywords, and reviews. Jiaxuan developed Visualizations 3 and 4, including their data exports, filters, animations, and linked detail views. Jiaxuan also build the overall website layout, cinematic visual design, interaction polish, and cross-page consistency.
 
-**Muyu** was responsible for the remaining data processing, including MovieLens-based audience similarity. Muyu developed Visualizations 1 and 2, including the Movie Universe, Audience Network, and performance/discussion scatterplot with their search, filtering, selection, and detail interactions.
+**Muyu** built the data pipeline, collecting and cleaning MovieLens and TMDB data and merging them into the final 2,914-movie dataset. Muyu also scored review sentiment, extracted review keywords, and computed the MovieLens audience similarity used in Visualization 1. Muyu developed Visualizations 1 and 2, including the Movie Universe, Audience Network, and performance/discussion scatterplot with their search, filtering, selection, and detail interactions. Muyu built the homepage story and its on-chart annotations.
 
 Both team members contributed to project framing, integration, debugging, interpretation, documentation, and presentation preparation.
 
